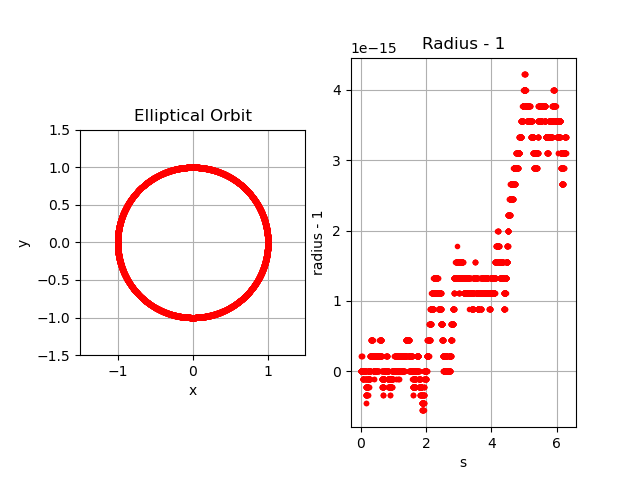
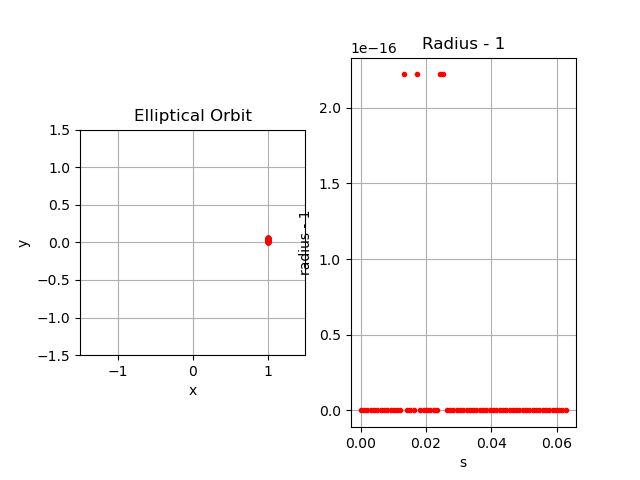
Implemented a step limiter for when the B coefficients have converged

diff --git a/ias15PDE.py b/ias15PDE.py
@@ -54,12 +54,18 @@ def push(func: callable, gunc: callable, xi, yi, dt, Bx = np.zeros(7), By = np.z
     Output:
     xn - new position x 
     yn - new position y'''
-
-    for i in range(12):
+    for i in range(20):
         xh, yh = calculateNodePositions(Bx, By, xi, yi, func, gunc, dt, hp = h)
         Fx, Fy = calculateDerivatives(xh, yh, func, gunc)
         Gx, Gy = calculateGFromF_xy(Fx, Fy)
-        Bx, By = calculateB_xy(Gx, Gy)
+        Bxf, Byf = calculateB_xy(Gx, Gy)
+        diff_Bx = Bx - Bxf
+        diff_By = By - Byf
+        total_diff = np.sqrt(np.sum(diff_Bx**2) + np.sum(diff_By**2))
+        Bx = Bxf
+        By = Byf
+        if total_diff < 1e-16:
+            break
     xn, yn = calculateNewPosition(Bx, By, xi, yi, func, gunc, dt)
     return xn, yn, Bx, By
 

diff --git a/regression_elipse.py b/regression_elipse.py
@@ -9,7 +9,7 @@ x0 = 1
 y0 = 0
 
 ds = .001
-s_final = np.pi*2
+s_final = np.pi*2/100
 nSteps = int(s_final/ds)
 s = np.linspace(0,s_final,nSteps+1, endpoint=True)
 x = np.zeros(nSteps+1)
